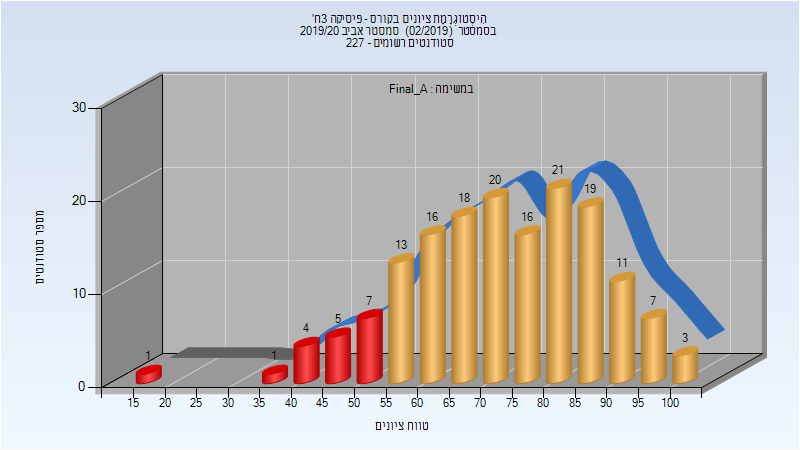
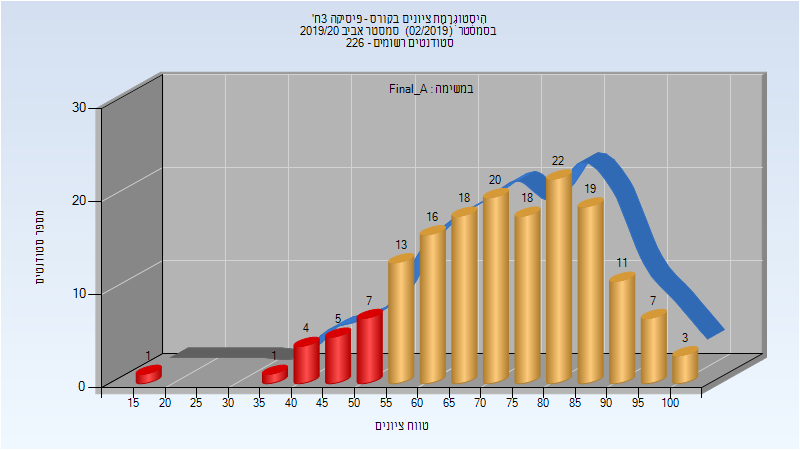
Deploy michael-maltsev/technion-histograms to github.com/michael-maltsev/technion-histograms.git:gh-pages

Changed region(s): [[0.625, 0.3422, 0.7812, 0.5289]]

diff --git a/114073/index.html b/114073/index.html
@@ -1525,12 +1525,12 @@
 </thead>
 <tbody>
 <tr>
-<td>162</td>
-<td>144/18</td>
+<td>165</td>
+<td>147/18</td>
 <td>89</td>
 <td>17</td>
 <td>100</td>
-<td>72.827</td>
+<td>72.945</td>
 <td>74</td>
 </tr>
 </tbody>

diff --git a/114073/README.md b/114073/README.md
@@ -483,7 +483,7 @@
 
 | סטודנטים | עברו/נכשלו | אחוז עוברים | ציון מינימלי | ציון מקסימלי | ממוצע | חציון |
 | ---- | ---- | ---- | ---- | ---- | ---- | ---- |
-| 162 | 144/18 | 89 | 17 | 100 | 72.827 | 74 |
+| 165 | 147/18 | 89 | 17 | 100 | 72.945 | 74 |
 
 ### סופי
 
